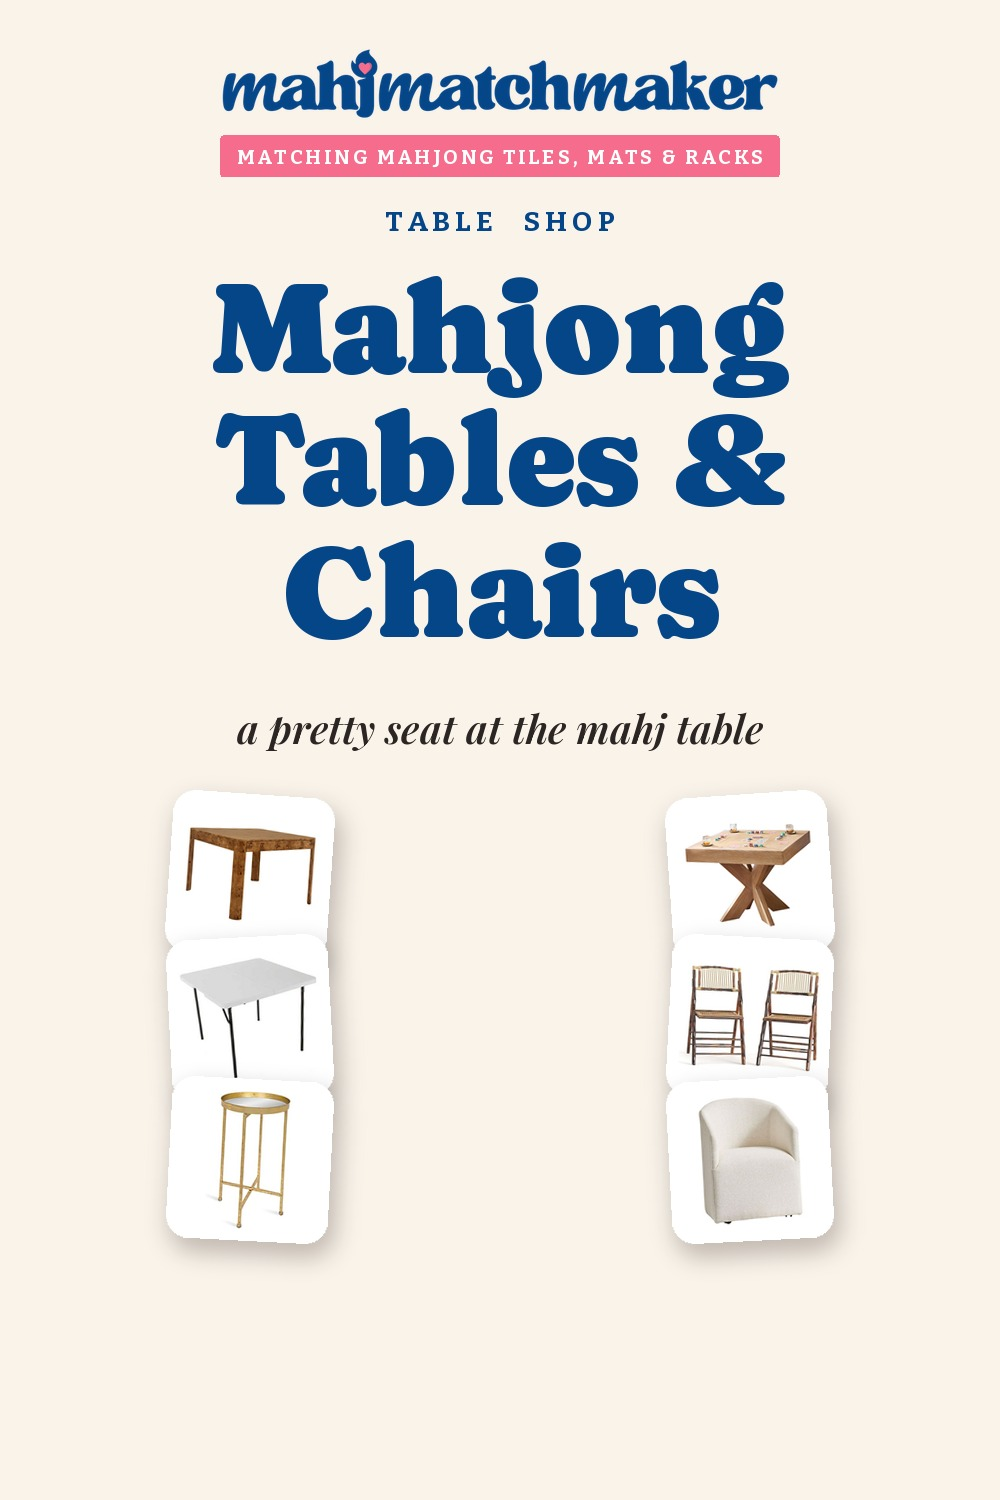
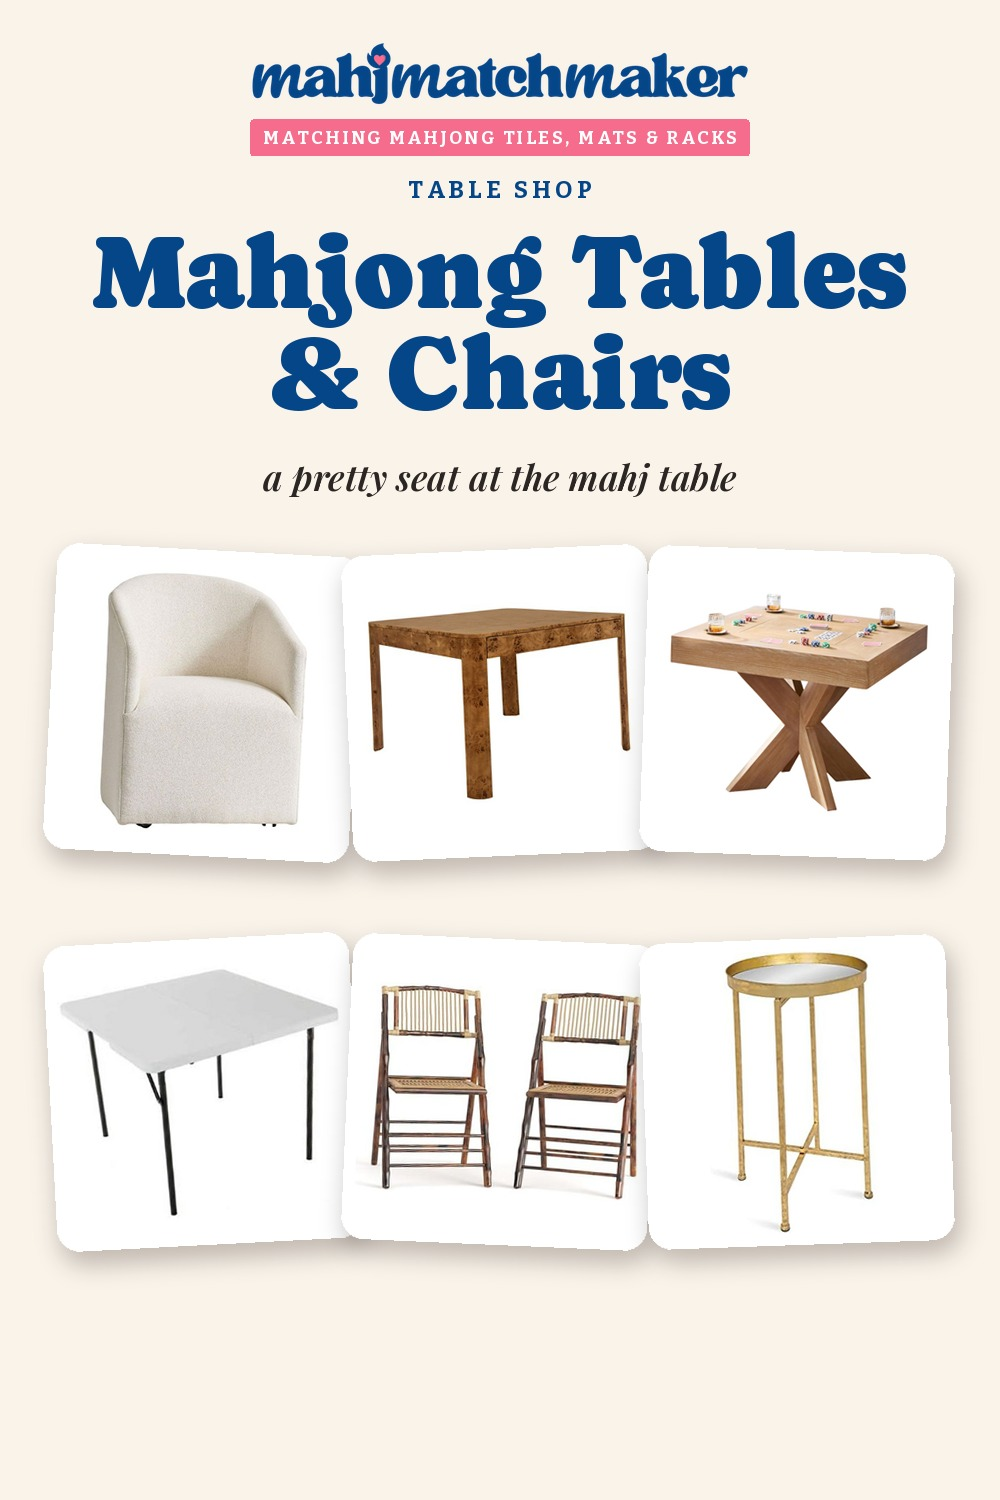
ShopMy portrait covers: fill the frame (rebuilt layout)
Claude-Session: https://claude.ai/code/session_01PiwamzEftkvrKP5d7A1QEB

Changed region(s): [[0.031, 0.0307, 0.961, 0.8587]]

diff --git a/scripts/shopmy/make_covers_portrait.py b/scripts/shopmy/make_covers_portrait.py
@@ -22,33 +22,37 @@ def wrap(d, text, fnt, maxw):
 
 def makeP(cid, slug, title, tag, kicker, accent, layout, picks):
     c = Image.new('RGBA', (W, H), BG + (255,)); d = ImageDraw.Draw(c)
-    lw = 560; logo = lockup(lw); c.alpha_composite(logo, ((W - lw) // 2, 46))
-    ky = 46 + logo.height + 44
-    d.text((W / 2, ky), ' '.join(kicker.upper()).replace('   ', '      '), font=font(BIT, 28), fill=NAVY, anchor='mm')
-    # title: biggest size whose balanced wrap fits 860px in <= 3 lines
-    for ts in range(132, 70, -4):
-        f = font(CAP, ts); ls = wrap(d, title, f, 860)
-        if len(ls) <= (2 if len(title) < 22 else 3): break
-    y = ky + 40 + ts // 2
+    lw = 500; logo = lockup(lw); c.alpha_composite(logo, ((W - lw) // 2, 40))
+    ky = 40 + logo.height + 34
+    d.text((W / 2, ky), ' '.join(kicker.upper()), font=font(BIT, 24), fill=NAVY, anchor='mm')
+    for ts in range(104, 60, -4):
+        f = font(CAP, ts); ls = wrap(d, title, f, 840)
+        if len(ls) <= 2 or (len(ls) == 3 and ts <= 92): break
+    y = ky + 30 + ts // 2
     for l in ls:
-        d.text((W / 2, y), l, font=f, fill=hexc(accent), anchor='mm'); y += int(ts * 1.0)
-    tf = font(PFI, 40); tl = wrap(d, tag, tf, 800); y += 4
+        d.text((W / 2, y), l, font=f, fill=hexc(accent), anchor='mm'); y += int(ts * .98)
+    tf = font(PFI, 36); tl = wrap(d, tag, tf, 820); y += 2
     for l in tl:
-        d.text((W / 2, y), l, font=tf, fill=INK, anchor='mm'); y += 50
-    top = y + 14; avail = SAFE_BOTTOM - top
-    n = len(picks)
-    if n == 5:
-        hero = min(int(avail * .60), 470); s = min(int(avail * .37), 300)
-        cy = top + avail / 2
-        pos = [(205, top + s * .55, s, -4), (795, top + s * .6, s, 4), (205, SAFE_BOTTOM - s * .55, s, 3), (795, SAFE_BOTTOM - s * .55, s, -3), (500, cy, hero, -1.5)]
-        order = [picks[1], picks[2], picks[3], picks[4], picks[0]]
-    else:   # 6: hero (picks[0]) bigger top-centre-left, 2 columns x 3 rows
-        s = min(int((avail - 20) / 3 * 1.12), 330)
-        rows = [top + s * .52, top + avail / 2, SAFE_BOTTOM - s * .52]
-        pos = [(250, rows[0], s, -4), (750, rows[0], s, 4), (250, rows[1], s, 3), (750, rows[1], s, -3), (250, rows[2], s, -3), (750, rows[2], s, 3)]
-        order = list(picks)
-        if layout == 'tc': order = [picks[1], picks[2], picks[3], picks[4], picks[5], picks[0]]   # hero chair last = on top, but keep grid
-    for p, (cx, cy, sz, r) in zip(order, pos): place(c, card(p, int(sz), r), cx, cy)
+        d.text((W / 2, y), l, font=tf, fill=INK, anchor='mm'); y += 44
+    top = y + 30; bot = SAFE_BOTTOM; zh = bot - top; n = len(picks)
+    # cards fill the whole zone: rows x cols grid, cards overlap slightly, slight tilts
+    if n >= 6: rows, cols = [3, 3], 2; grid = [3, 3]
+    if n >= 6:
+        grid = [3, 3]
+    elif n == 5: grid = [2, 3]
+    else: grid = [n]
+    nr = len(grid); maxc = max(grid)
+    s = min(int(zh / nr * 1.04), int(900 / maxc * 1.02), 360)
+    rowh = (zh - s) / max(nr - 1, 1) if nr > 1 else 0
+    tilts = [-3, 2.5, -2, 3, -2.5, 2, -3, 2]; k = 0
+    for ri, cnt in enumerate(grid):
+        sz = s if cnt == maxc else int(s * 1.18)
+        cy = top + sz / 2 + ri * rowh if nr > 1 else top + zh / 2
+        if cnt != maxc: cy = top + s / 2 + ri * rowh - (sz - s) / 2 * (1 if ri == 0 else -1) * 0
+        span = 900; step = (span - sz) / max(cnt - 1, 1) if cnt > 1 else 0
+        for ci in range(cnt):
+            cx = 500 + (0 if cnt == 1 else -span / 2 + sz / 2 + ci * step)
+            place(c, card(picks[k % n], int(sz), tilts[k % len(tilts)]), cx, cy); k += 1
     os.makedirs(OUTP, exist_ok=True)
     out = OUTP + slug + '.jpg'; c.convert('RGB').save(out, quality=92); return out
 
